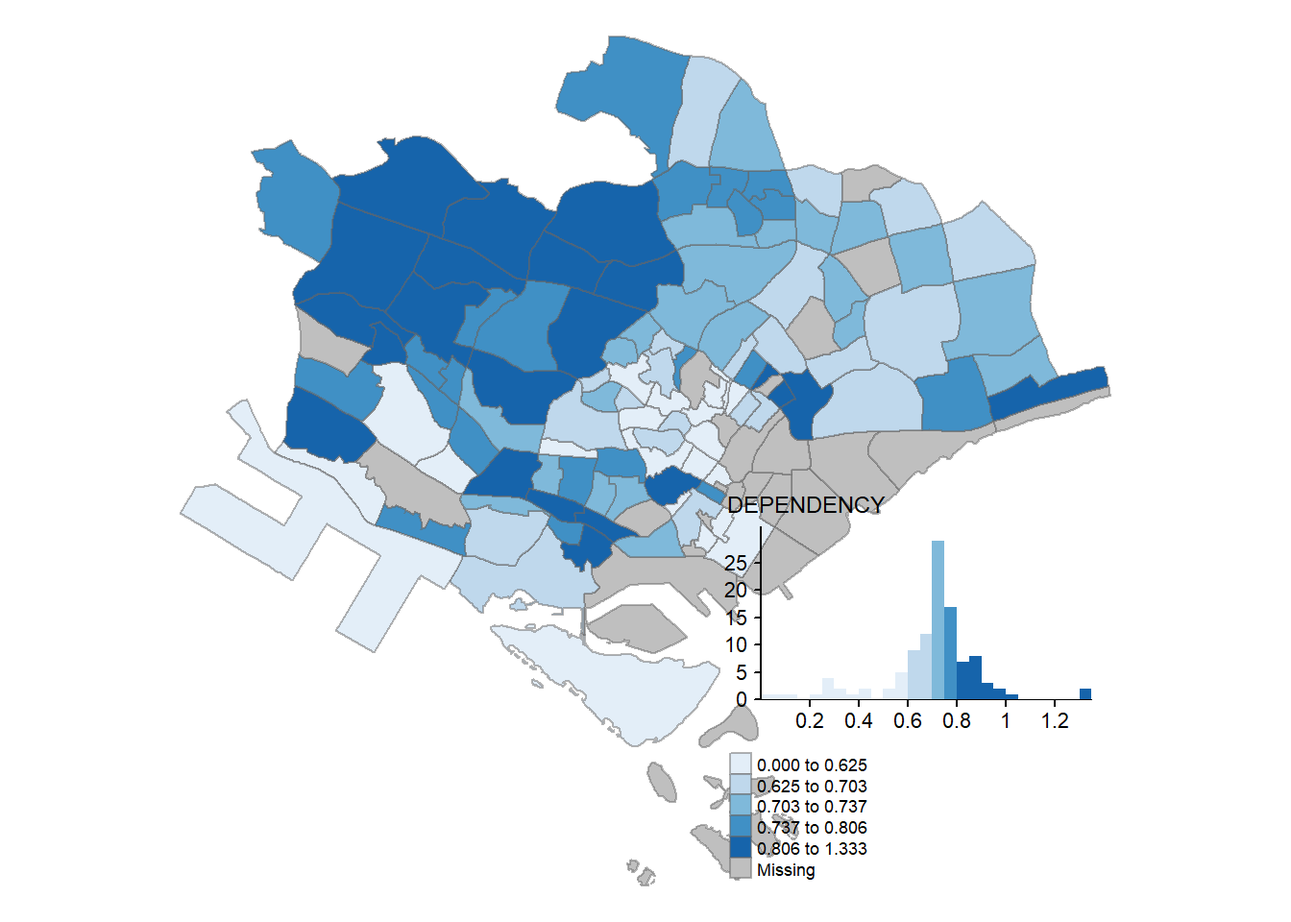
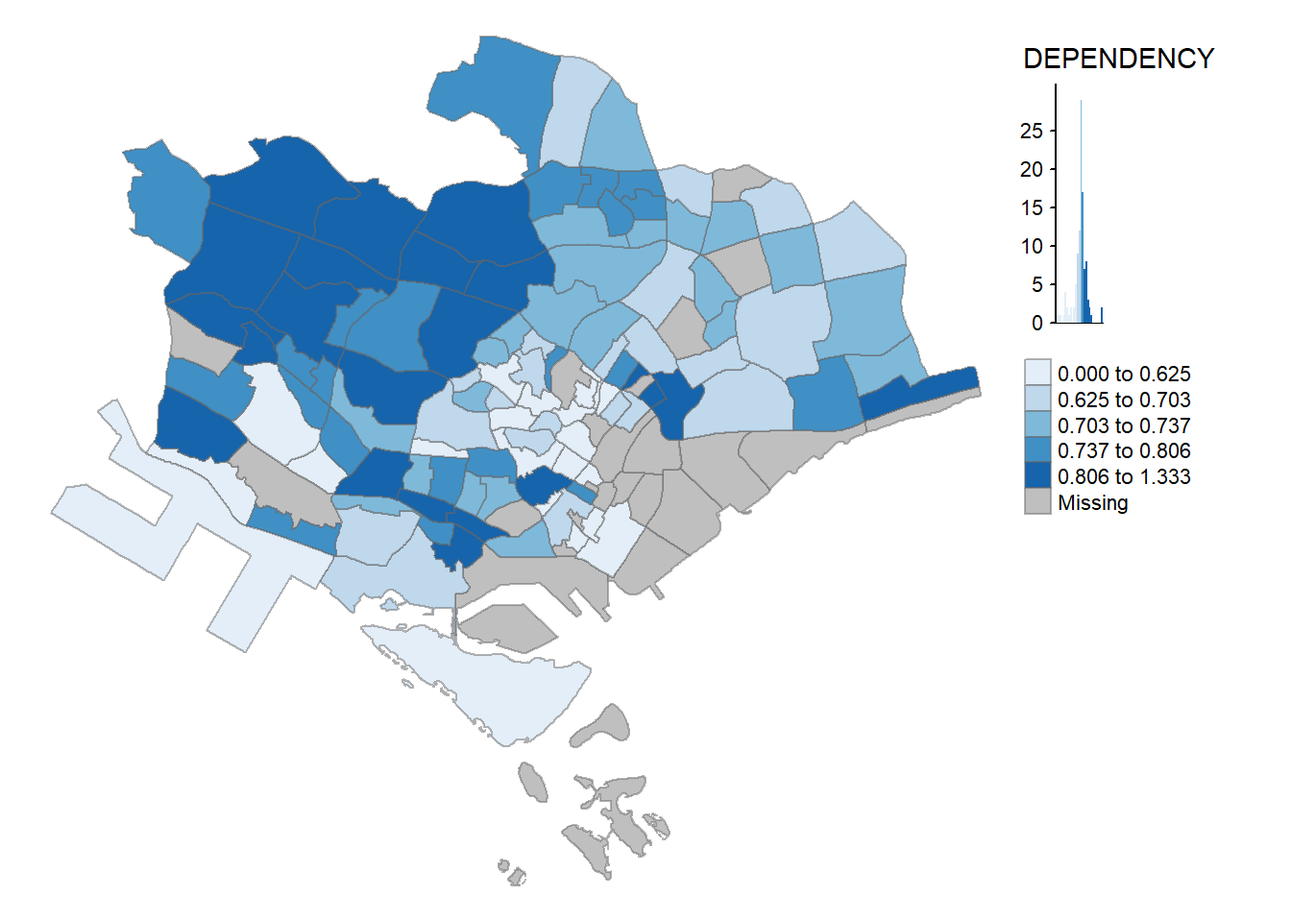
bugfix

diff --git a/_site/HOE/ex2/ex2.html b/_site/HOE/ex2/ex2.html
@@ -195,12 +195,8 @@ pre > code.sourceCode > span > a:first-child::before { text-decoration: underlin
     <h2 id="toc-title">On this page</h2>
    
   <ul>
-  <li><a href="#thematic-mapping-and-geovisualisation-with-r" id="toc-thematic-mapping-and-geovisualisation-with-r" class="nav-link active" data-scroll-target="#thematic-mapping-and-geovisualisation-with-r">Thematic Mapping and GeoVisualisation with R</a>
-  <ul class="collapse">
-  <li><a href="#installlaunch-r-packages" id="toc-installlaunch-r-packages" class="nav-link" data-scroll-target="#installlaunch-r-packages">Install/Launch R Packages</a></li>
-  <li><a href="#download-and-import-data" id="toc-download-and-import-data" class="nav-link" data-scroll-target="#download-and-import-data">Download and Import Data</a></li>
+  <li><a href="#download-and-import-data" id="toc-download-and-import-data" class="nav-link active" data-scroll-target="#download-and-import-data">Download and Import Data</a></li>
   <li><a href="#choropleth-mapping-geospatial-data-using-tmap" id="toc-choropleth-mapping-geospatial-data-using-tmap" class="nav-link" data-scroll-target="#choropleth-mapping-geospatial-data-using-tmap">Choropleth Mapping Geospatial Data using <em>tmap</em></a></li>
-  </ul></li>
   </ul>
 </nav>
     </div>
@@ -238,18 +234,15 @@ pre > code.sourceCode > span > a:first-child::before { text-decoration: underlin
 </header>
 
 
-<section id="thematic-mapping-and-geovisualisation-with-r" class="level1">
-<h1>Thematic Mapping and GeoVisualisation with R</h1>
-<p><strong>Overview</strong></p>
-<p>Thematic mapping involves the use of map symbols to visualise properties of geographic features that are not naturally visible, a few examples being population, temperature, and crime rate.</p>
+<p>Thematic Mapping and GeoVisualisation with R</p>
+<p>Overview</p>
+<p>Thematic mapping invovles the use of map symbols to visualise properties of geogrpahic features that are not naturally visible, a few examples being population, temperature, and crime rate.</p>
 <p>On the other hand, geovisualisation works by providing graphical ideation to render a place, phenomenon, or process visible, allowing us to utilise our vision to process information.</p>
-<section id="installlaunch-r-packages" class="level2">
-<h2 class="anchored" data-anchor-id="installlaunch-r-packages">Install/Launch R Packages</h2>
+<p>Install/Launch R Packages**</p>
 <p>This exercise uses the R packages <em>tmap</em>, <em>sf</em> and <em>tidyverse</em>.</p>
 <div class="cell">
 <div class="sourceCode cell-code" id="cb1"><pre class="sourceCode r code-with-copy"><code class="sourceCode r"><span id="cb1-1"><a href="#cb1-1" aria-hidden="true" tabindex="-1"></a>pacman<span class="sc">::</span><span class="fu">p_load</span>(sf,tmap,tidyverse)</span></code><button title="Copy to Clipboard" class="code-copy-button"><i class="bi"></i></button></pre></div>
 </div>
-</section>
 <section id="download-and-import-data" class="level2">
 <h2 class="anchored" data-anchor-id="download-and-import-data">Download and Import Data</h2>
 <p>Download the following:</p>
@@ -531,10 +524,7 @@ dbl (2): Pop, Time
 </div>
 <p>Using the above results as reference, we set the breakpoints at .6, .7, .8, and .9. With the addition of the min and max breakpoints, the <em>breaks</em> vector is c(0, 0.6, 0.7, 0.8, 0.9, 1).</p>
 <div class="cell">
-<div class="sourceCode cell-code" id="cb29"><pre class="sourceCode r code-with-copy"><code class="sourceCode r"><span id="cb29-1"><a href="#cb29-1" aria-hidden="true" tabindex="-1"></a><span class="fu">tm_shape</span>(mpsz_pop2020) <span class="sc">+</span> <span class="fu">tm_fill</span>(<span class="st">"DEPENDENCY"</span>, <span class="at">breaks =</span> <span class="fu">c</span>(<span class="dv">0</span>, <span class="fl">0.60</span>, <span class="fl">0.70</span>, <span class="fl">0.80</span>, <span class="fl">0.90</span>, <span class="fl">1.00</span>)) <span class="sc">+</span> <span class="fu">tm_borders</span>(<span class="at">alpha =</span> <span class="fl">0.5</span>)</span></code><button title="Copy to Clipboard" class="code-copy-button"><i class="bi"></i></button></pre></div>
-<div class="cell-output cell-output-stderr">
-<pre><code>Warning: Values have found that are higher than the highest break</code></pre>
-</div>
+<div class="sourceCode cell-code" id="cb29"><pre class="sourceCode r code-with-copy"><code class="sourceCode r"><span id="cb29-1"><a href="#cb29-1" aria-hidden="true" tabindex="-1"></a><span class="fu">tm_shape</span>(mpsz_pop2020) <span class="sc">+</span> <span class="fu">tm_fill</span>(<span class="st">"DEPENDENCY"</span>, <span class="at">breaks =</span> <span class="fu">c</span>(<span class="dv">0</span>, <span class="fl">0.60</span>, <span class="fl">0.70</span>, <span class="fl">0.80</span>, <span class="fl">0.90</span>, <span class="fl">1.00</span>, <span class="dv">19</span>)) <span class="sc">+</span> <span class="fu">tm_borders</span>(<span class="at">alpha =</span> <span class="fl">0.5</span>)</span></code><button title="Copy to Clipboard" class="code-copy-button"><i class="bi"></i></button></pre></div>
 <div class="cell-output-display">
 <div>
 <figure class="figure">
@@ -546,7 +536,7 @@ dbl (2): Pop, Time
 <p>tmap supports color ramps either defined by the user, or from a prebuilt set from the RColorBrewer package.</p>
 <p>Assigning the preferred color to the palette argument of tm_fill() as shown in the code chunk below.</p>
 <div class="cell">
-<div class="sourceCode cell-code" id="cb31"><pre class="sourceCode r code-with-copy"><code class="sourceCode r"><span id="cb31-1"><a href="#cb31-1" aria-hidden="true" tabindex="-1"></a><span class="fu">tm_shape</span>(mpsz_pop2020) <span class="sc">+</span> <span class="fu">tm_fill</span>(<span class="st">"DEPENDENCY"</span>, <span class="at">n =</span> <span class="dv">6</span>, <span class="at">style =</span> <span class="st">"quantile"</span>, <span class="at">palette =</span> <span class="st">"Blues"</span>) <span class="sc">+</span> <span class="fu">tm_borders</span>(<span class="at">alpha =</span> <span class="fl">0.5</span>)</span></code><button title="Copy to Clipboard" class="code-copy-button"><i class="bi"></i></button></pre></div>
+<div class="sourceCode cell-code" id="cb30"><pre class="sourceCode r code-with-copy"><code class="sourceCode r"><span id="cb30-1"><a href="#cb30-1" aria-hidden="true" tabindex="-1"></a><span class="fu">tm_shape</span>(mpsz_pop2020) <span class="sc">+</span> <span class="fu">tm_fill</span>(<span class="st">"DEPENDENCY"</span>, <span class="at">n =</span> <span class="dv">6</span>, <span class="at">style =</span> <span class="st">"quantile"</span>, <span class="at">palette =</span> <span class="st">"Blues"</span>) <span class="sc">+</span> <span class="fu">tm_borders</span>(<span class="at">alpha =</span> <span class="fl">0.5</span>)</span></code><button title="Copy to Clipboard" class="code-copy-button"><i class="bi"></i></button></pre></div>
 <div class="cell-output-display">
 <div>
 <figure class="figure">
@@ -557,7 +547,7 @@ dbl (2): Pop, Time
 </div>
 <p>Reverse the color shading using “-”</p>
 <div class="cell">
-<div class="sourceCode cell-code" id="cb32"><pre class="sourceCode r code-with-copy"><code class="sourceCode r"><span id="cb32-1"><a href="#cb32-1" aria-hidden="true" tabindex="-1"></a><span class="fu">tm_shape</span>(mpsz_pop2020) <span class="sc">+</span> <span class="fu">tm_fill</span>(<span class="st">"DEPENDENCY"</span>, <span class="at">n =</span> <span class="dv">6</span>, <span class="at">style =</span> <span class="st">"quantile"</span>, <span class="at">palette =</span> <span class="st">"-Blues"</span>) <span class="sc">+</span> <span class="fu">tm_borders</span>(<span class="at">alpha =</span> <span class="fl">0.5</span>)</span></code><button title="Copy to Clipboard" class="code-copy-button"><i class="bi"></i></button></pre></div>
+<div class="sourceCode cell-code" id="cb31"><pre class="sourceCode r code-with-copy"><code class="sourceCode r"><span id="cb31-1"><a href="#cb31-1" aria-hidden="true" tabindex="-1"></a><span class="fu">tm_shape</span>(mpsz_pop2020) <span class="sc">+</span> <span class="fu">tm_fill</span>(<span class="st">"DEPENDENCY"</span>, <span class="at">n =</span> <span class="dv">6</span>, <span class="at">style =</span> <span class="st">"quantile"</span>, <span class="at">palette =</span> <span class="st">"-Blues"</span>) <span class="sc">+</span> <span class="fu">tm_borders</span>(<span class="at">alpha =</span> <span class="fl">0.5</span>)</span></code><button title="Copy to Clipboard" class="code-copy-button"><i class="bi"></i></button></pre></div>
 <div class="cell-output-display">
 <div>
 <figure class="figure">
@@ -569,7 +559,7 @@ dbl (2): Pop, Time
 <p>Map layout refers to the combination of all map elements into a cohesive map. Map elements include the title, scale bar, compass, margins, and aspect ratios.</p>
 <p>In tmap, several <em>legend</em> options are provided to change the placement, format, and appearance of the legend.</p>
 <div class="cell">
-<div class="sourceCode cell-code" id="cb33"><pre class="sourceCode r code-with-copy"><code class="sourceCode r"><span id="cb33-1"><a href="#cb33-1" aria-hidden="true" tabindex="-1"></a><span class="fu">tm_shape</span>(mpsz_pop2020)<span class="sc">+</span><span class="fu">tm_fill</span>(<span class="st">"DEPENDENCY"</span>, <span class="at">style =</span> <span class="st">"jenks"</span>, <span class="at">palette =</span> <span class="st">"Blues"</span>, <span class="at">title =</span> <span class="st">"No. of persons"</span>) <span class="sc">+</span> <span class="fu">tm_layout</span>(<span class="at">main.title =</span> <span class="st">"Distribution of Dependency Ratio </span><span class="sc">\n</span><span class="st">by Planning Subzone"</span>, <span class="at">main.title.position =</span> <span class="st">"center"</span>, <span class="at">main.title.size =</span> <span class="dv">1</span>, <span class="at">legend.height =</span> <span class="fl">0.45</span>, <span class="at">legend.width =</span> <span class="fl">0.35</span>, <span class="at">frame =</span> <span class="cn">TRUE</span>) <span class="sc">+</span> <span class="fu">tm_borders</span>(<span class="at">alpha =</span> <span class="fl">0.5</span>)</span></code><button title="Copy to Clipboard" class="code-copy-button"><i class="bi"></i></button></pre></div>
+<div class="sourceCode cell-code" id="cb32"><pre class="sourceCode r code-with-copy"><code class="sourceCode r"><span id="cb32-1"><a href="#cb32-1" aria-hidden="true" tabindex="-1"></a><span class="fu">tm_shape</span>(mpsz_pop2020)<span class="sc">+</span><span class="fu">tm_fill</span>(<span class="st">"DEPENDENCY"</span>, <span class="at">style =</span> <span class="st">"jenks"</span>, <span class="at">palette =</span> <span class="st">"Blues"</span>, <span class="at">title =</span> <span class="st">"No. of persons"</span>) <span class="sc">+</span> <span class="fu">tm_layout</span>(<span class="at">main.title =</span> <span class="st">"Distribution of Dependency Ratio </span><span class="sc">\n</span><span class="st">by Planning Subzone"</span>, <span class="at">main.title.position =</span> <span class="st">"center"</span>, <span class="at">main.title.size =</span> <span class="dv">1</span>, <span class="at">legend.height =</span> <span class="fl">0.45</span>, <span class="at">legend.width =</span> <span class="fl">0.35</span>, <span class="at">frame =</span> <span class="cn">TRUE</span>) <span class="sc">+</span> <span class="fu">tm_borders</span>(<span class="at">alpha =</span> <span class="fl">0.5</span>)</span></code><button title="Copy to Clipboard" class="code-copy-button"><i class="bi"></i></button></pre></div>
 <div class="cell-output-display">
 <div>
 <figure class="figure">
@@ -580,7 +570,7 @@ dbl (2): Pop, Time
 </div>
 <p>tmap allows a wide variety of layout settings to be changed, whcih can be called using tmap_style()</p>
 <div class="cell">
-<div class="sourceCode cell-code" id="cb34"><pre class="sourceCode r code-with-copy"><code class="sourceCode r"><span id="cb34-1"><a href="#cb34-1" aria-hidden="true" tabindex="-1"></a><span class="fu">tm_shape</span>(mpsz_pop2020) <span class="sc">+</span> <span class="fu">tm_fill</span>(<span class="st">"DEPENDENCY"</span>, <span class="at">style =</span> <span class="st">"quantile"</span>, <span class="at">palette =</span> <span class="st">"-Blues"</span>) <span class="sc">+</span> <span class="fu">tm_borders</span>(<span class="at">alpha =</span> <span class="fl">0.5</span>) <span class="sc">+</span> <span class="fu">tmap_style</span>(<span class="st">"classic"</span>)</span></code><button title="Copy to Clipboard" class="code-copy-button"><i class="bi"></i></button></pre></div>
+<div class="sourceCode cell-code" id="cb33"><pre class="sourceCode r code-with-copy"><code class="sourceCode r"><span id="cb33-1"><a href="#cb33-1" aria-hidden="true" tabindex="-1"></a><span class="fu">tm_shape</span>(mpsz_pop2020) <span class="sc">+</span> <span class="fu">tm_fill</span>(<span class="st">"DEPENDENCY"</span>, <span class="at">style =</span> <span class="st">"quantile"</span>, <span class="at">palette =</span> <span class="st">"-Blues"</span>) <span class="sc">+</span> <span class="fu">tm_borders</span>(<span class="at">alpha =</span> <span class="fl">0.5</span>) <span class="sc">+</span> <span class="fu">tmap_style</span>(<span class="st">"classic"</span>)</span></code><button title="Copy to Clipboard" class="code-copy-button"><i class="bi"></i></button></pre></div>
 <div class="cell-output cell-output-stderr">
 <pre><code>tmap style set to "classic"</code></pre>
 </div>
@@ -597,7 +587,7 @@ dbl (2): Pop, Time
 </div>
 <p>tmap also provides arguments to draw map features such as compass, scale bar, and grid lines.</p>
 <div class="cell">
-<div class="sourceCode cell-code" id="cb37"><pre class="sourceCode r code-with-copy"><code class="sourceCode r"><span id="cb37-1"><a href="#cb37-1" aria-hidden="true" tabindex="-1"></a><span class="fu">tm_shape</span>(mpsz_pop2020)<span class="sc">+</span><span class="fu">tm_fill</span>(<span class="st">"DEPENDENCY"</span>, <span class="at">style =</span> <span class="st">"quantile"</span>, <span class="at">palette =</span> <span class="st">"Blues"</span>, <span class="at">title =</span> <span class="st">"No. of persons"</span>) <span class="sc">+</span> <span class="fu">tm_layout</span>(<span class="at">main.title =</span> <span class="st">"Distribution of Dependency Ratio </span><span class="sc">\n</span><span class="st">by Planning Subzone"</span>, <span class="at">main.title.position =</span> <span class="st">"center"</span>, <span class="at">main.title.size =</span> <span class="fl">1.2</span>, <span class="at">legend.height =</span> <span class="fl">0.45</span>, <span class="at">legend.width =</span> <span class="fl">0.35</span>, <span class="at">frame =</span> <span class="cn">TRUE</span>) <span class="sc">+</span> <span class="fu">tm_borders</span>(<span class="at">alpha =</span> <span class="fl">0.5</span>) <span class="sc">+</span> <span class="fu">tm_compass</span>(<span class="at">type=</span><span class="st">"8star"</span>, <span class="at">size =</span> <span class="dv">2</span>) <span class="sc">+</span> <span class="fu">tm_scale_bar</span>(<span class="at">width =</span> <span class="fl">0.15</span>) <span class="sc">+</span> <span class="fu">tm_grid</span>(<span class="at">lwd =</span> <span class="fl">0.1</span>, <span class="at">alpha =</span> <span class="fl">0.2</span>) <span class="sc">+</span> <span class="fu">tm_credits</span>(<span class="st">"Source: Planning Sub-zone boundary from Urban Redevelopment Authority (URA)</span><span class="sc">\n</span><span class="st"> and Population data from Department of Statistics DOS"</span>, <span class="at">position =</span> <span class="fu">c</span>(<span class="st">"left"</span>, <span class="st">"bottom"</span>))</span></code><button title="Copy to Clipboard" class="code-copy-button"><i class="bi"></i></button></pre></div>
+<div class="sourceCode cell-code" id="cb36"><pre class="sourceCode r code-with-copy"><code class="sourceCode r"><span id="cb36-1"><a href="#cb36-1" aria-hidden="true" tabindex="-1"></a><span class="fu">tm_shape</span>(mpsz_pop2020)<span class="sc">+</span><span class="fu">tm_fill</span>(<span class="st">"DEPENDENCY"</span>, <span class="at">style =</span> <span class="st">"quantile"</span>, <span class="at">palette =</span> <span class="st">"Blues"</span>, <span class="at">title =</span> <span class="st">"No. of persons"</span>) <span class="sc">+</span> <span class="fu">tm_layout</span>(<span class="at">main.title =</span> <span class="st">"Distribution of Dependency Ratio </span><span class="sc">\n</span><span class="st">by Planning Subzone"</span>, <span class="at">main.title.position =</span> <span class="st">"center"</span>, <span class="at">main.title.size =</span> <span class="fl">1.2</span>, <span class="at">legend.height =</span> <span class="fl">0.45</span>, <span class="at">legend.width =</span> <span class="fl">0.35</span>, <span class="at">frame =</span> <span class="cn">TRUE</span>) <span class="sc">+</span> <span class="fu">tm_borders</span>(<span class="at">alpha =</span> <span class="fl">0.5</span>) <span class="sc">+</span> <span class="fu">tm_compass</span>(<span class="at">type=</span><span class="st">"8star"</span>, <span class="at">size =</span> <span class="dv">2</span>) <span class="sc">+</span> <span class="fu">tm_scale_bar</span>(<span class="at">width =</span> <span class="fl">0.15</span>) <span class="sc">+</span> <span class="fu">tm_grid</span>(<span class="at">lwd =</span> <span class="fl">0.1</span>, <span class="at">alpha =</span> <span class="fl">0.2</span>) <span class="sc">+</span> <span class="fu">tm_credits</span>(<span class="st">"sajdad"</span>, <span class="at">position =</span> <span class="fu">c</span>(<span class="st">"left"</span>, <span class="st">"bottom"</span>))</span></code><button title="Copy to Clipboard" class="code-copy-button"><i class="bi"></i></button></pre></div>
 <div class="cell-output-display">
 <div>
 <figure class="figure">
@@ -608,7 +598,7 @@ dbl (2): Pop, Time
 </div>
 <p>Reset the default style using the code below:</p>
 <div class="cell">
-<div class="sourceCode cell-code" id="cb38"><pre class="sourceCode r code-with-copy"><code class="sourceCode r"><span id="cb38-1"><a href="#cb38-1" aria-hidden="true" tabindex="-1"></a><span class="fu">tmap_style</span>(<span class="st">"white"</span>)</span></code><button title="Copy to Clipboard" class="code-copy-button"><i class="bi"></i></button></pre></div>
+<div class="sourceCode cell-code" id="cb37"><pre class="sourceCode r code-with-copy"><code class="sourceCode r"><span id="cb37-1"><a href="#cb37-1" aria-hidden="true" tabindex="-1"></a><span class="fu">tmap_style</span>(<span class="st">"white"</span>)</span></code><button title="Copy to Clipboard" class="code-copy-button"><i class="bi"></i></button></pre></div>
 <div class="cell-output cell-output-stderr">
 <pre><code>tmap style set to "white"</code></pre>
 </div>
@@ -625,7 +615,7 @@ dbl (2): Pop, Time
 </ol>
 <p>The code below creates facet maps by defining <em>ncols</em> in tm_fill():</p>
 <div class="cell">
-<div class="sourceCode cell-code" id="cb41"><pre class="sourceCode r code-with-copy"><code class="sourceCode r"><span id="cb41-1"><a href="#cb41-1" aria-hidden="true" tabindex="-1"></a><span class="fu">tm_shape</span>(mpsz_pop2020) <span class="sc">+</span> <span class="fu">tm_fill</span>(<span class="fu">c</span>(<span class="st">"YOUNG"</span>, <span class="st">"AGED"</span>), <span class="at">style =</span> <span class="st">"equal"</span>, <span class="at">palette =</span> <span class="st">"Blues"</span>) <span class="sc">+</span> <span class="fu">tm_layout</span>(<span class="at">legend.position =</span> <span class="fu">c</span>(<span class="st">"right"</span>, <span class="st">"bottom"</span>)) <span class="sc">+</span> <span class="fu">tm_borders</span>(<span class="at">alpha =</span> <span class="fl">0.5</span>)</span></code><button title="Copy to Clipboard" class="code-copy-button"><i class="bi"></i></button></pre></div>
+<div class="sourceCode cell-code" id="cb40"><pre class="sourceCode r code-with-copy"><code class="sourceCode r"><span id="cb40-1"><a href="#cb40-1" aria-hidden="true" tabindex="-1"></a><span class="fu">tm_shape</span>(mpsz_pop2020) <span class="sc">+</span> <span class="fu">tm_fill</span>(<span class="fu">c</span>(<span class="st">"YOUNG"</span>, <span class="st">"AGED"</span>), <span class="at">style =</span> <span class="st">"equal"</span>, <span class="at">palette =</span> <span class="st">"Blues"</span>) <span class="sc">+</span> <span class="fu">tm_layout</span>(<span class="at">legend.position =</span> <span class="fu">c</span>(<span class="st">"right"</span>, <span class="st">"bottom"</span>)) <span class="sc">+</span> <span class="fu">tm_borders</span>(<span class="at">alpha =</span> <span class="fl">0.5</span>)</span></code><button title="Copy to Clipboard" class="code-copy-button"><i class="bi"></i></button></pre></div>
 <div class="cell-output-display">
 <div>
 <figure class="figure">
@@ -636,7 +626,7 @@ dbl (2): Pop, Time
 </div>
 <p>The code below creates facet maps by assigning multiple value to at least one of the aesthetic arguments:</p>
 <div class="cell">
-<div class="sourceCode cell-code" id="cb42"><pre class="sourceCode r code-with-copy"><code class="sourceCode r"><span id="cb42-1"><a href="#cb42-1" aria-hidden="true" tabindex="-1"></a><span class="fu">tm_shape</span>(mpsz_pop2020) <span class="sc">+</span> <span class="fu">tm_polygons</span>(<span class="fu">c</span>(<span class="st">"DEPENDENCY"</span>, <span class="st">"AGED"</span>), <span class="at">style =</span> <span class="fu">c</span>(<span class="st">"equal"</span>, <span class="st">"quantile"</span>), <span class="at">palette =</span> <span class="fu">list</span>(<span class="st">"Blues"</span>, <span class="st">"Greens"</span>)) <span class="sc">+</span> <span class="fu">tm_layout</span>(<span class="at">legend.position =</span>  <span class="fu">c</span>(<span class="st">"right"</span>, <span class="st">"bottom"</span>))</span></code><button title="Copy to Clipboard" class="code-copy-button"><i class="bi"></i></button></pre></div>
+<div class="sourceCode cell-code" id="cb41"><pre class="sourceCode r code-with-copy"><code class="sourceCode r"><span id="cb41-1"><a href="#cb41-1" aria-hidden="true" tabindex="-1"></a><span class="fu">tm_shape</span>(mpsz_pop2020) <span class="sc">+</span> <span class="fu">tm_polygons</span>(<span class="fu">c</span>(<span class="st">"DEPENDENCY"</span>, <span class="st">"AGED"</span>), <span class="at">style =</span> <span class="fu">c</span>(<span class="st">"equal"</span>, <span class="st">"quantile"</span>), <span class="at">palette =</span> <span class="fu">list</span>(<span class="st">"Blues"</span>, <span class="st">"Greens"</span>)) <span class="sc">+</span> <span class="fu">tm_layout</span>(<span class="at">legend.position =</span>  <span class="fu">c</span>(<span class="st">"right"</span>, <span class="st">"bottom"</span>))</span></code><button title="Copy to Clipboard" class="code-copy-button"><i class="bi"></i></button></pre></div>
 <div class="cell-output-display">
 <div>
 <figure class="figure">
@@ -647,7 +637,7 @@ dbl (2): Pop, Time
 </div>
 <p>The code below creates facet maps by using tm_facets():</p>
 <div class="cell">
-<div class="sourceCode cell-code" id="cb43"><pre class="sourceCode r code-with-copy"><code class="sourceCode r"><span id="cb43-1"><a href="#cb43-1" aria-hidden="true" tabindex="-1"></a><span class="fu">tm_shape</span>(mpsz_pop2020) <span class="sc">+</span>  <span class="fu">tm_fill</span>(<span class="st">"DEPENDENCY"</span>, <span class="at">style =</span> <span class="st">"quantile"</span>, <span class="at">palette =</span>  <span class="st">"Blues"</span>, <span class="at">thres.poly =</span> <span class="dv">0</span>) <span class="sc">+</span> <span class="fu">tm_facets</span>(<span class="at">by=</span><span class="st">"REGION_N"</span>, <span class="at">free.coords =</span> <span class="cn">TRUE</span>, <span class="at">drop.units =</span> <span class="cn">TRUE</span>) <span class="sc">+</span> <span class="fu">tm_layout</span>(<span class="at">legend.show =</span> <span class="cn">FALSE</span>, <span class="at">title.position =</span> <span class="fu">c</span>(<span class="st">"center"</span>, <span class="st">"center"</span>), <span class="at">title.size =</span> <span class="dv">20</span>) <span class="sc">+</span> <span class="fu">tm_borders</span>(<span class="at">alpha =</span> <span class="fl">0.5</span>)</span></code><button title="Copy to Clipboard" class="code-copy-button"><i class="bi"></i></button></pre></div>
+<div class="sourceCode cell-code" id="cb42"><pre class="sourceCode r code-with-copy"><code class="sourceCode r"><span id="cb42-1"><a href="#cb42-1" aria-hidden="true" tabindex="-1"></a><span class="fu">tm_shape</span>(mpsz_pop2020) <span class="sc">+</span>  <span class="fu">tm_fill</span>(<span class="st">"DEPENDENCY"</span>, <span class="at">style =</span> <span class="st">"quantile"</span>, <span class="at">palette =</span>  <span class="st">"Blues"</span>, <span class="at">thres.poly =</span> <span class="dv">0</span>) <span class="sc">+</span> <span class="fu">tm_facets</span>(<span class="at">by=</span><span class="st">"REGION_N"</span>, <span class="at">free.coords =</span> <span class="cn">TRUE</span>, <span class="at">drop.units =</span> <span class="cn">TRUE</span>) <span class="sc">+</span> <span class="fu">tm_layout</span>(<span class="at">legend.show =</span> <span class="cn">FALSE</span>, <span class="at">title.position =</span> <span class="fu">c</span>(<span class="st">"center"</span>, <span class="st">"center"</span>), <span class="at">title.size =</span> <span class="dv">20</span>) <span class="sc">+</span> <span class="fu">tm_borders</span>(<span class="at">alpha =</span> <span class="fl">0.5</span>)</span></code><button title="Copy to Clipboard" class="code-copy-button"><i class="bi"></i></button></pre></div>
 <div class="cell-output-display">
 <div>
 <figure class="figure">
@@ -658,10 +648,10 @@ dbl (2): Pop, Time
 </div>
 <p>The code below creates facet maps by using tm_arrange():</p>
 <div class="cell">
-<div class="sourceCode cell-code" id="cb44"><pre class="sourceCode r code-with-copy"><code class="sourceCode r"><span id="cb44-1"><a href="#cb44-1" aria-hidden="true" tabindex="-1"></a>youngmap <span class="ot">&lt;-</span> <span class="fu">tm_shape</span>(mpsz_pop2020) <span class="sc">+</span> <span class="fu">tm_polygons</span> (<span class="st">"YOUNG"</span>, <span class="at">style =</span> <span class="st">"quantile"</span>, <span class="at">palette =</span> <span class="st">"Blues"</span>)</span>
-<span id="cb44-2"><a href="#cb44-2" aria-hidden="true" tabindex="-1"></a>agedmap <span class="ot">&lt;-</span> <span class="fu">tm_shape</span>(mpsz_pop2020) <span class="sc">+</span> <span class="fu">tm_polygons</span> (<span class="st">"AGED"</span>, <span class="at">style =</span> <span class="st">"quantile"</span>, <span class="at">palette =</span> <span class="st">"Blues"</span>)</span>
-<span id="cb44-3"><a href="#cb44-3" aria-hidden="true" tabindex="-1"></a></span>
-<span id="cb44-4"><a href="#cb44-4" aria-hidden="true" tabindex="-1"></a><span class="fu">tmap_arrange</span>(youngmap, agedmap, <span class="at">asp=</span><span class="dv">1</span>, <span class="at">ncol=</span><span class="dv">2</span>)</span></code><button title="Copy to Clipboard" class="code-copy-button"><i class="bi"></i></button></pre></div>
+<div class="sourceCode cell-code" id="cb43"><pre class="sourceCode r code-with-copy"><code class="sourceCode r"><span id="cb43-1"><a href="#cb43-1" aria-hidden="true" tabindex="-1"></a>youngmap <span class="ot">&lt;-</span> <span class="fu">tm_shape</span>(mpsz_pop2020) <span class="sc">+</span> <span class="fu">tm_polygons</span> (<span class="st">"YOUNG"</span>, <span class="at">style =</span> <span class="st">"quantile"</span>, <span class="at">palette =</span> <span class="st">"Blues"</span>)</span>
+<span id="cb43-2"><a href="#cb43-2" aria-hidden="true" tabindex="-1"></a>agedmap <span class="ot">&lt;-</span> <span class="fu">tm_shape</span>(mpsz_pop2020) <span class="sc">+</span> <span class="fu">tm_polygons</span> (<span class="st">"AGED"</span>, <span class="at">style =</span> <span class="st">"quantile"</span>, <span class="at">palette =</span> <span class="st">"Blues"</span>)</span>
+<span id="cb43-3"><a href="#cb43-3" aria-hidden="true" tabindex="-1"></a></span>
+<span id="cb43-4"><a href="#cb43-4" aria-hidden="true" tabindex="-1"></a><span class="fu">tmap_arrange</span>(youngmap, agedmap, <span class="at">asp=</span><span class="dv">1</span>, <span class="at">ncol=</span><span class="dv">2</span>)</span></code><button title="Copy to Clipboard" class="code-copy-button"><i class="bi"></i></button></pre></div>
 <div class="cell-output-display">
 <div>
 <figure class="figure">
@@ -672,7 +662,7 @@ dbl (2): Pop, Time
 </div>
 <p>Instead of creating a facet map, the selection function can be used to map spatial objects meeting the selection criterion.</p>
 <div class="cell">
-<div class="sourceCode cell-code" id="cb45"><pre class="sourceCode r code-with-copy"><code class="sourceCode r"><span id="cb45-1"><a href="#cb45-1" aria-hidden="true" tabindex="-1"></a><span class="fu">tm_shape</span>(mpsz_pop2020[mpsz_pop2020<span class="sc">$</span>REGION_N<span class="sc">==</span><span class="st">"CENTRAL REGION"</span>, ]) <span class="sc">+</span> <span class="fu">tm_fill</span>(<span class="st">"DEPENDENCY"</span>, <span class="at">style =</span> <span class="st">"quantile"</span>, <span class="at">palette =</span> <span class="st">"Blues"</span>, <span class="at">legend.hist =</span> <span class="cn">TRUE</span>, <span class="at">legend.is.portrait =</span> <span class="cn">TRUE</span>, <span class="at">legend.hist.z =</span> <span class="fl">0.1</span>) <span class="sc">+</span> <span class="fu">tm_layout</span>(<span class="at">legend.outside =</span> <span class="cn">FALSE</span>, <span class="at">legend.height =</span> <span class="fl">0.45</span>, <span class="at">legend.width =</span> <span class="fl">5.0</span>, <span class="at">legend.position =</span> <span class="fu">c</span>(<span class="st">"right"</span>, <span class="st">"bottom"</span>), <span class="at">frame =</span> <span class="cn">FALSE</span>) <span class="sc">+</span> <span class="fu">tm_borders</span>(<span class="at">alpha =</span> <span class="fl">0.5</span>)</span></code><button title="Copy to Clipboard" class="code-copy-button"><i class="bi"></i></button></pre></div>
+<div class="sourceCode cell-code" id="cb44"><pre class="sourceCode r code-with-copy"><code class="sourceCode r"><span id="cb44-1"><a href="#cb44-1" aria-hidden="true" tabindex="-1"></a><span class="fu">tm_shape</span>(mpsz_pop2020[mpsz_pop2020<span class="sc">$</span>REGION_N<span class="sc">==</span><span class="st">"CENTRAL REGION"</span>, ]) <span class="sc">+</span> <span class="fu">tm_fill</span>(<span class="st">"DEPENDENCY"</span>, <span class="at">style =</span> <span class="st">"quantile"</span>, <span class="at">palette =</span> <span class="st">"Blues"</span>, <span class="at">legend.hist =</span> <span class="cn">TRUE</span>, <span class="at">legend.is.portrait =</span> <span class="cn">TRUE</span>, <span class="at">legend.hist.z =</span> <span class="fl">0.1</span>) <span class="sc">+</span> <span class="fu">tm_layout</span>(<span class="at">legend.outside =</span> <span class="cn">TRUE</span>, <span class="at">legend.outside.size =</span> <span class="fl">0.2</span>, <span class="at">legend.outside.position =</span> <span class="fu">c</span>(<span class="st">"right"</span>, <span class="st">"bottom"</span>), <span class="at">frame =</span> <span class="cn">FALSE</span>) <span class="sc">+</span> <span class="fu">tm_borders</span>(<span class="at">alpha =</span> <span class="fl">0.5</span>)</span></code><button title="Copy to Clipboard" class="code-copy-button"><i class="bi"></i></button></pre></div>
 <div class="cell-output-display">
 <div>
 <figure class="figure">
@@ -683,7 +673,6 @@ dbl (2): Pop, Time
 </div>
 
 
-</section>
 </section>
 
 </main> <!-- /main -->
